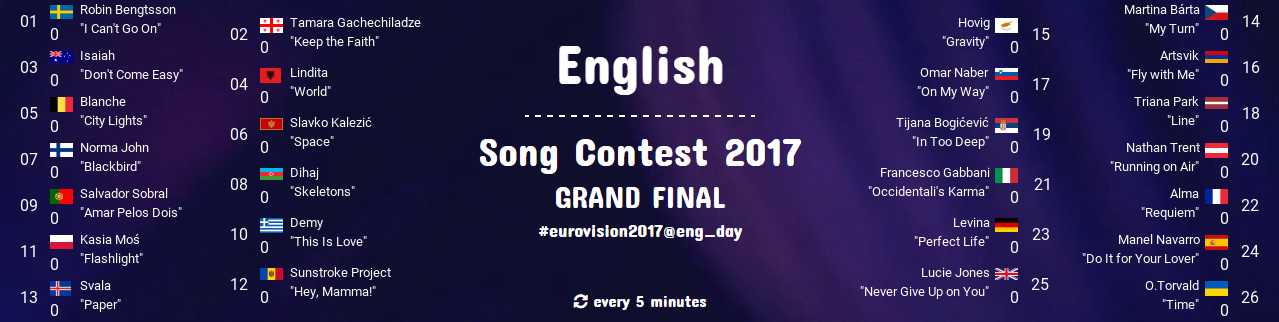
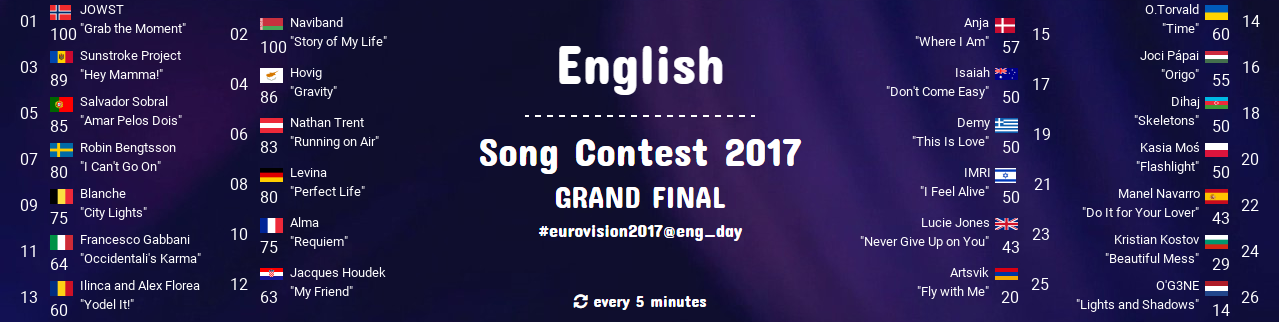
End of Eurovision Song Contest. Fix. Update

diff --git a/templates/euro2017/Euro.php b/templates/euro2017/Euro.php
@@ -89,23 +89,26 @@ class Euro
                 ->where('final_poll', '>', 0)
                 ->where('isFinal', '=', true)
                 ->orderBy('time', 'ASC')
-                ->limit(4)
+                ->limit(3)
                 ->get();
         else
             $pollIDs = \QB::table(self::TABLE)
                 ->where('poll_id', '>', 0)
                 ->where('round', '=', $round)
                 ->orderBy('time', 'ASC')
-                ->limit(4)
+                ->limit(3)
                 ->get();
 
         if ( empty($pollIDs) )
             return;
 
-        $tokens = [T_USR, T_USR2, T_USR3, T_USR4];
+        $tokens = [T_USR, T_USR2, T_USR3];
 
         foreach ($pollIDs as $key => $pollID) {
-            $poll = Polls::getById($pollID->poll_id, $tokens[$key % count($tokens)]);
+            if ( empty($round) )
+                $poll = Polls::getById($pollID->final_poll, $tokens[$key % count($tokens)]);
+            else
+                $poll = Polls::getById($pollID->poll_id, $tokens[$key % count($tokens)]);
 
             if ( ! empty($poll->error) )
                 continue;
@@ -162,13 +165,13 @@ class Euro
             self::addText($fon, $offset, 32 + $li, $num, false, 12);
             self::addText($fon, 60 + $offset, 19 + $li, $data[$i]->name, false, 10);
             self::addText($fon, 60 + $offset, 38 + $li, '"' . $data[$i]->song . '"', false, 10);
-            self::addText($fon, 30 + $offset, 45 + $li, $data[$i]->rating, false, 12);
+            self::addText($fon, 30 + $offset, 45 + $li, $data[$i]->final_rating, false, 12);
 
             self::addFlag($fon, $data[$i + $count]->country, 1225 - $offset, 10 + $li);
             self::addText($fon, $offset, 32 + $li, $i + $count + 1, true, 12);
             self::addText($fon, 60 + $offset, 19 + $li, $data[$i + $count]->name, true, 10);
             self::addText($fon, 60 + $offset, 38 + $li, '"' . $data[$i + $count]->song . '"', true, 10);
-            self::addText($fon, 30 + $offset, 45 + $li, $data[$i + $count]->rating, true, 12);
+            self::addText($fon, 30 + $offset, 45 + $li, $data[$i + $count]->final_rating, true, 12);
         }
 
         imagepng($fon, __DIR__ . '/header/temp' . $round . '.png');

diff --git a/templates/euro2017/index.php b/templates/euro2017/index.php
@@ -21,6 +21,9 @@ switch ($d) {
     case 11: case 12: $round = 2; break;
 }
 
+if ($d > 14)
+	return;
+
 Euro::parsePoll($round);
 Euro::changeHeader($round);
 
@@ -30,30 +33,30 @@ if ($m % 30 != 0)
 
 if ( $m == 30 )
 {
-    if     ( in_array($h, ['6', '15']) )
+    if     ( in_array($h, ['11']) )
         Video::createPost();
 
-//    elseif ( in_array($h, ['12']) )
-//        Learn::createPost(456241870);
+    // elseif ( in_array($h, ['12']) )
+    //     Learn::createPost(456241870);
 
-    elseif ( in_array($h, ['4', '13', '19']) )
-        Verbs::createPost(20, 456242834);
+    // elseif ( in_array($h, ['4', '13', '19']) )
+    //     Verbs::createPost(20, 456242834);
 
-    elseif ( in_array($h, ['5', '9', '18']) )
+    elseif ( in_array($h, ['5', '14']) )
         Photos::createPost();
 
-    elseif ( in_array($h, ['14']) )
-        Exam::createPost(456242833);
+    // elseif ( in_array($h, ['14']) )
+    //     Exam::createPost(456242833);
 }
 else
 {
-    if     ( in_array($h, ['3', '6', '9', '12', '15', '18']) )
+    if     ( in_array($h, ['4', '13']) )
         Polls::createPost(Polls::TABLE_1, 456240697);
 
-    elseif ( in_array($h, ['4', '7', '10', '13', '16', '19']) )
+    elseif ( in_array($h, ['8', '19']) )
         Polls::createPost(Polls::TABLE_2, 456240698);
 
-    elseif ( in_array($h, ['2', '5', '8', '11', '14', '17']) )
+    elseif ( in_array($h, ['2', '9', '16']) )
         Translate::createPost(20, 456240584);
 }
 

diff --git a/public/main.php b/public/main.php
@@ -29,8 +29,11 @@ $m = date('i');
 
 if ( $m == 30 )
 {
-    if     ( in_array($h, ['12']) )
-        Learn::createPost(456241870);
+    if     ( in_array($h, ['0']) )
+        Exam::createPost(456242833);
+
+//    elseif ( in_array($h, ['12']) )
+//        Learn::createPost(456241870);
 
     elseif ( in_array($h, ['8', '20']) )
         Video::createPost();
@@ -40,9 +43,6 @@ if ( $m == 30 )
 
     elseif ( in_array($h, ['4', '10', '13', '17', '22']) )
         Photos::createPost();
-
-    elseif ( in_array($h, ['0']) )
-        Exam::createPost(456242833);
 
 //    elseif ( in_array($h, ['14']) )
 //        Polls::createPost(Polls::TABLE_3, 0);

diff --git a/templates/euro2017/btn.php b/templates/euro2017/btn.php
@@ -6,4 +6,4 @@ require_once D_ROOT . '/vendor/autoload.php';
 $db = require D_ROOT . '/configs/db.php';
 new Pixie\Connection($db['driver'], $db, 'QB');
 
-\tmp\euro2017\Euro::createPost(2);
+\tmp\euro2017\Euro::createPost();
